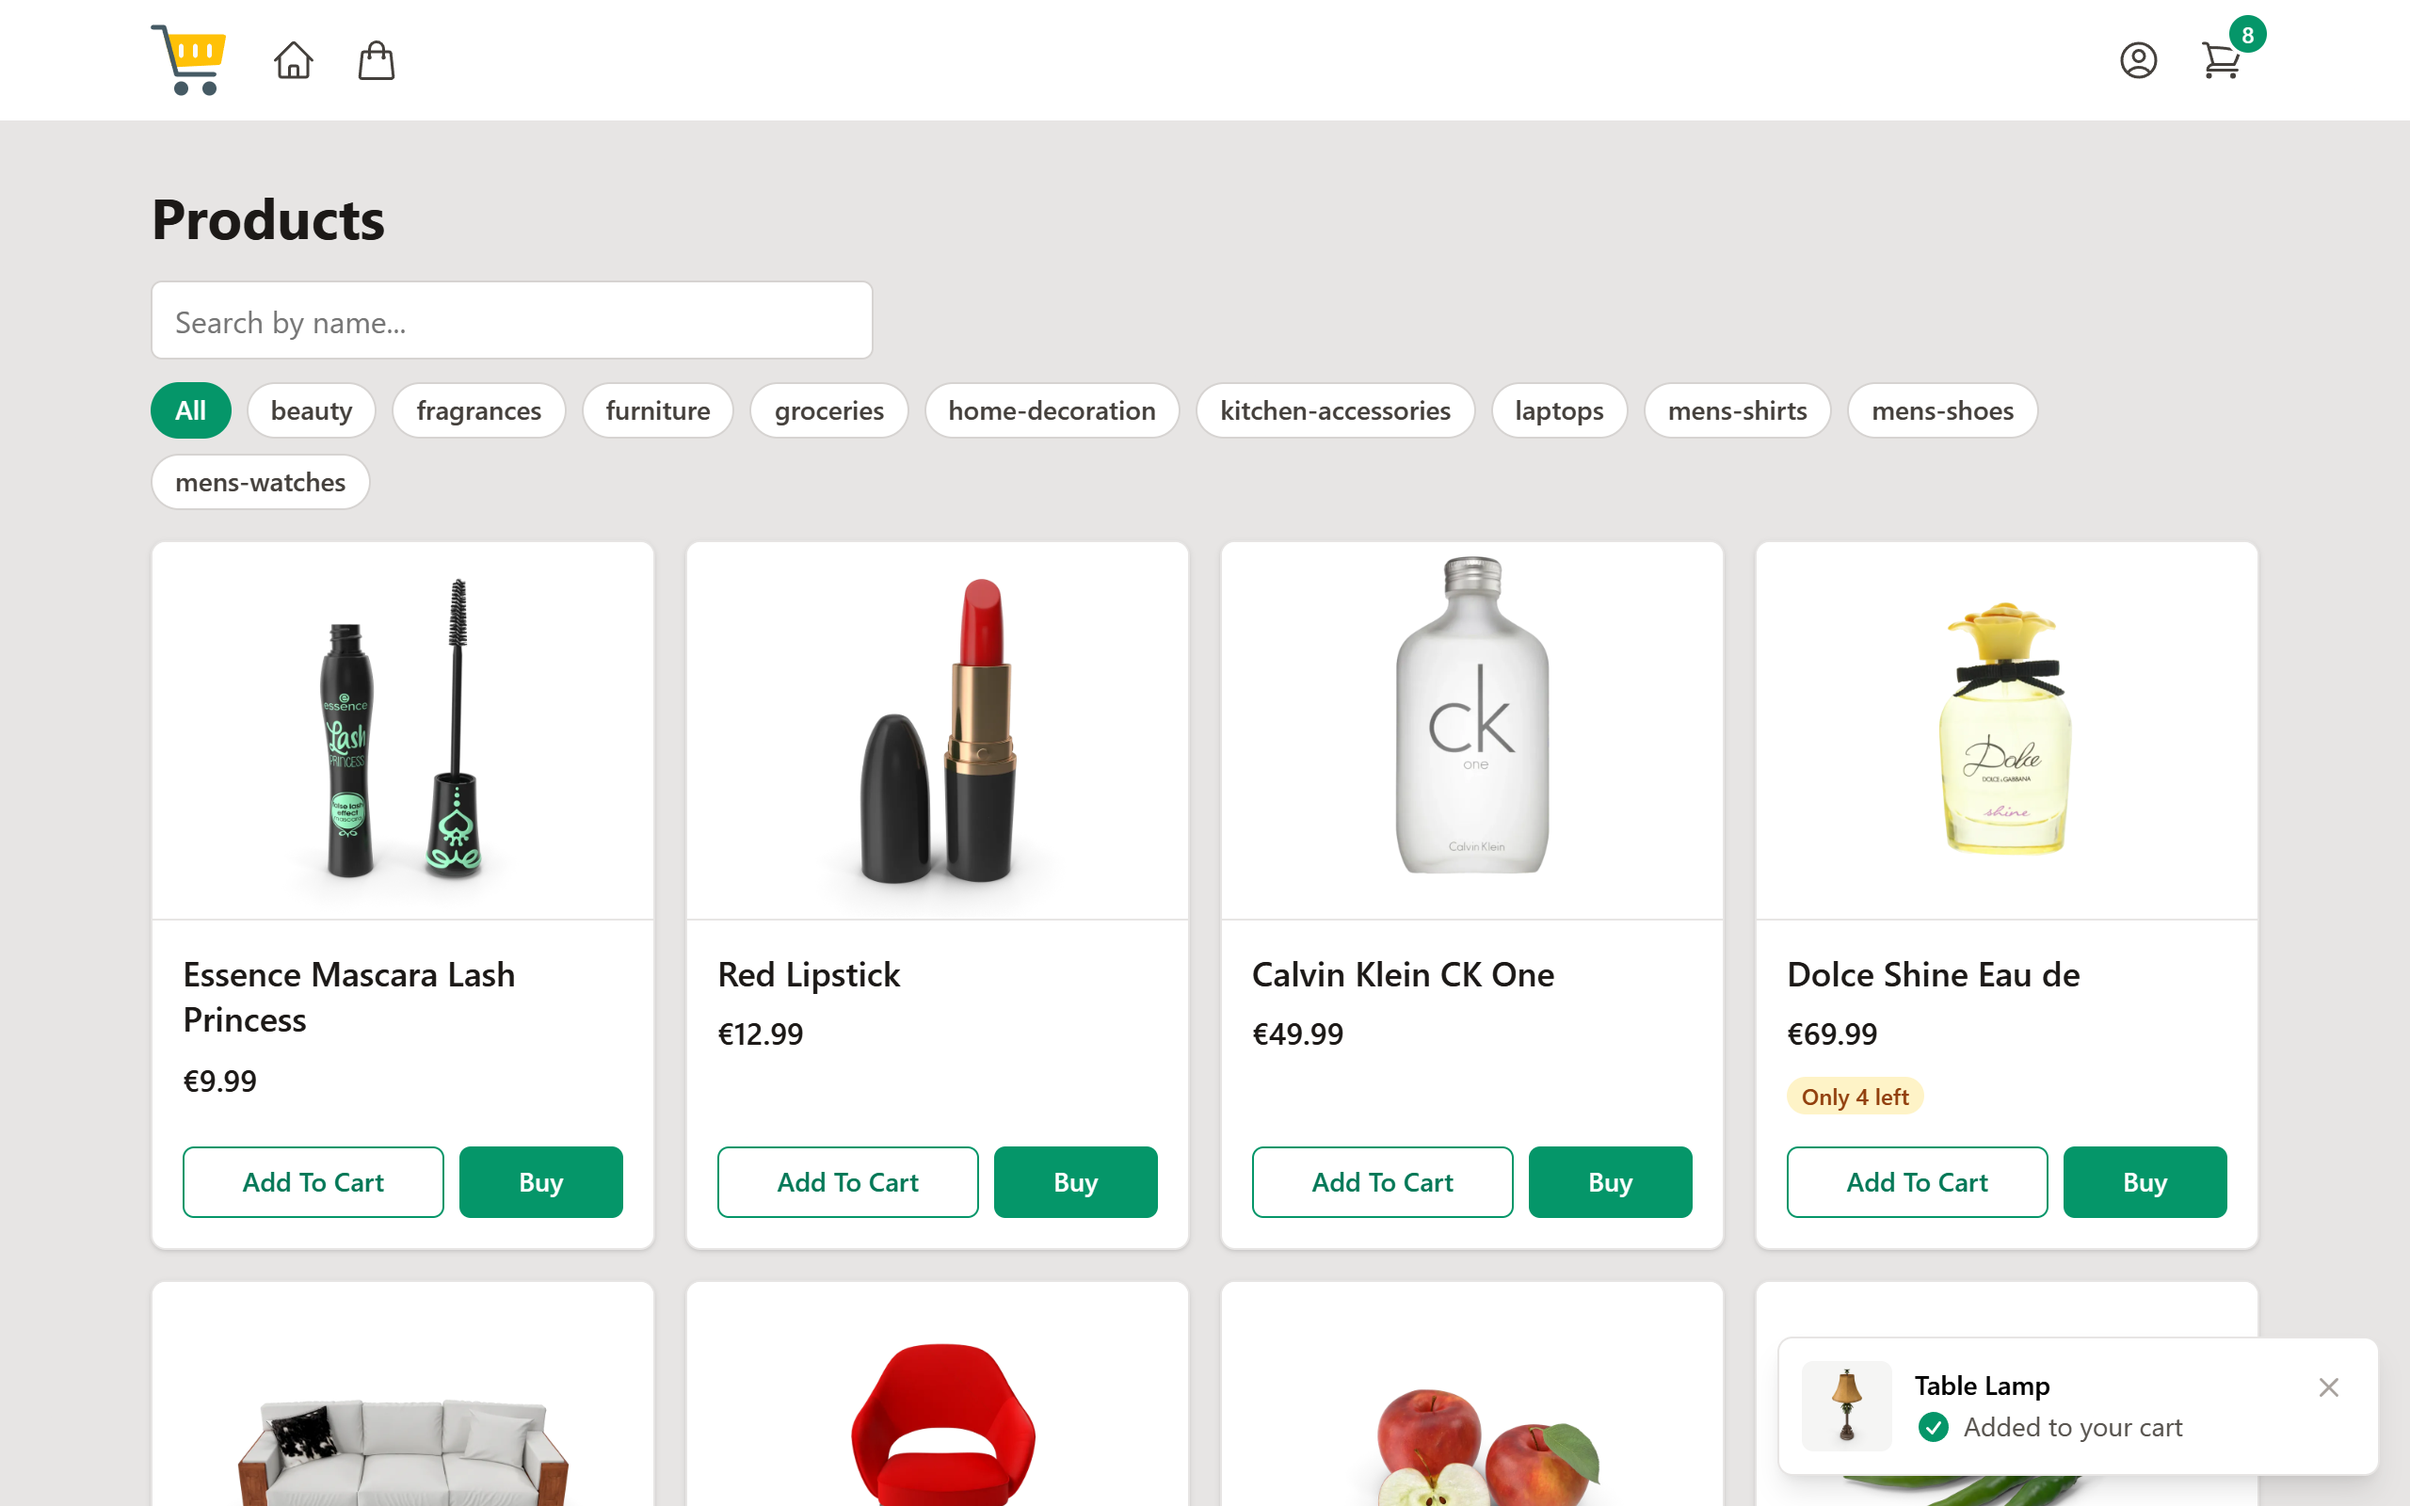
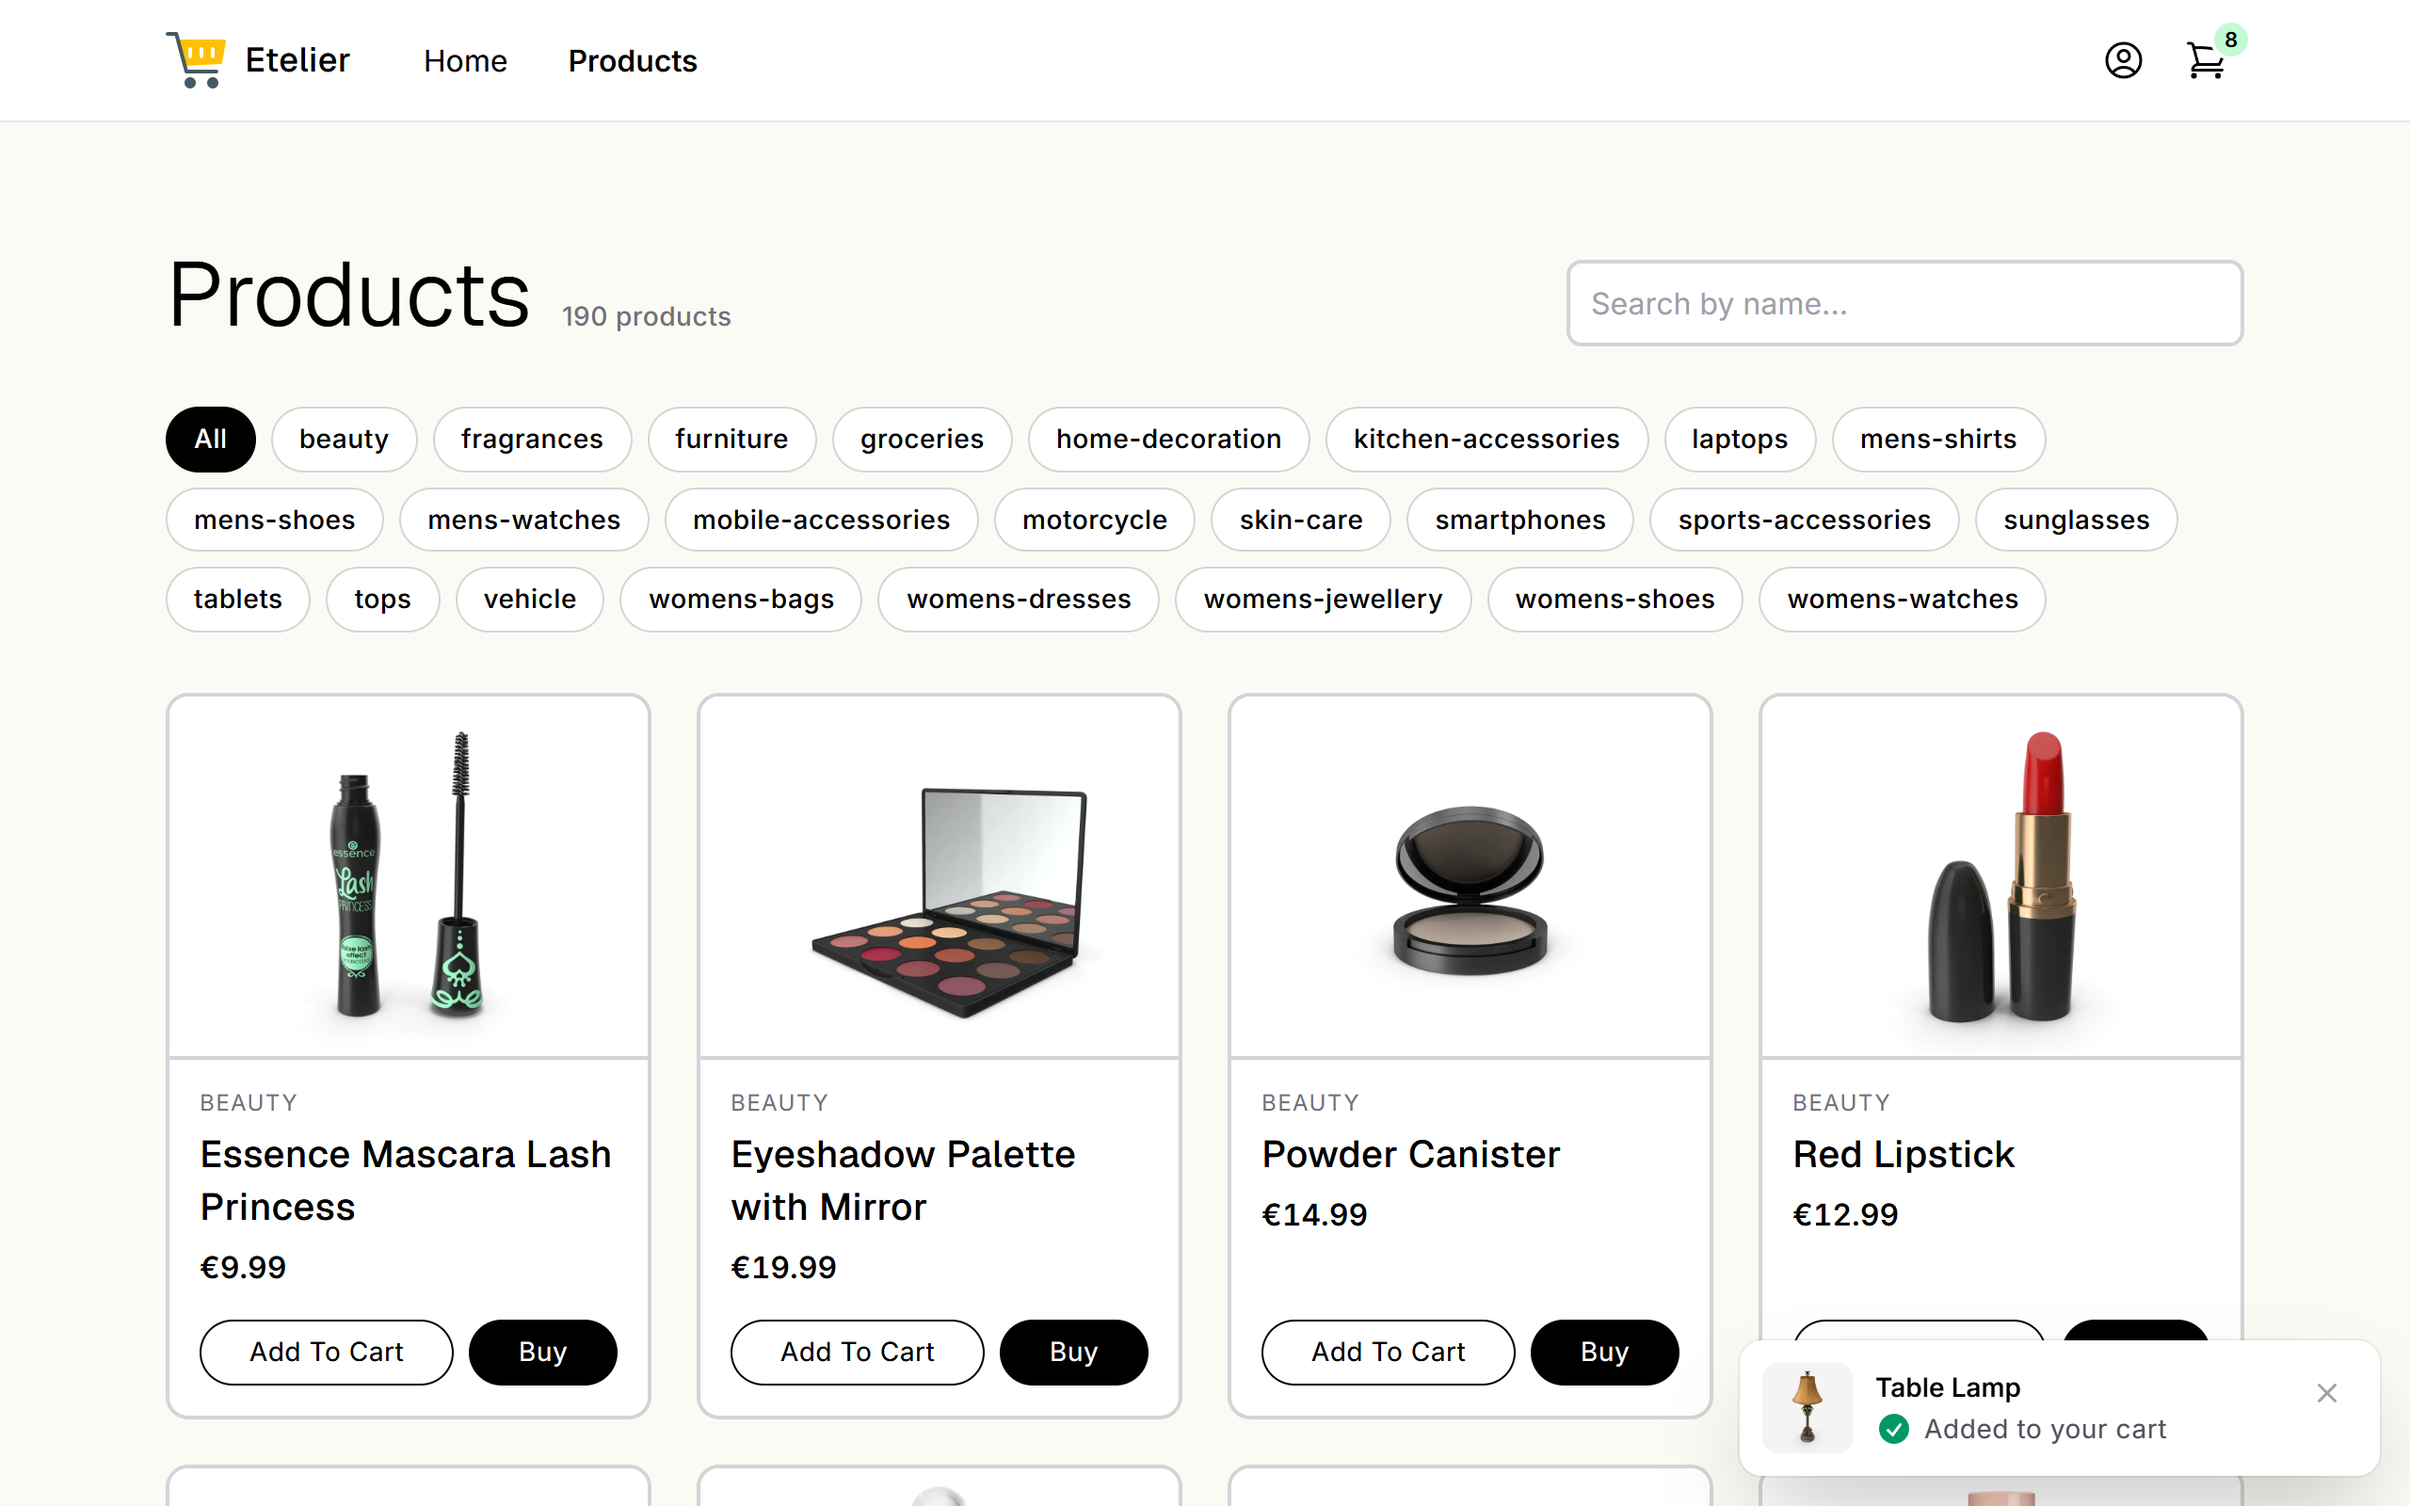
update screenshots to show the application with the new redesign

diff --git a/README.md b/README.md
@@ -19,8 +19,6 @@
 
 A small online shop built with Spring Boot and Thymeleaf. Customers can browse and filter products, add them to a cart or buy one straight away, pay through Stripe and see their order history. An admin gets a sales dashboard with low-stock alerts, can filter and page through every order, ship or refund paid orders, and add, edit, hide or set pictures for products.
 
-The project started as a web development group project for University ([report](docs/report.pdf), [wireframe design](docs/wireframe_design.pdf)). I decided to see if I could update, further refine and implement features as practice. The framework was upgraded, the security, database and order model were rebuilt, real payments were added, the Bootstrap pages were rebuilt with Tailwind CSS and then redesigned as **Etelier**, the catalogue was replaced with 194 real-looking products, and the whole thing is now covered by automated tests. The [Then vs now](#then-vs-now) section explains each change.
-
 <!-- markdownlint-disable MD033 -- side-by-side screenshots need HTML -->
 
 <p align="center">
@@ -33,10 +31,13 @@ The project started as a web development group project for University ([report](
 
 <!-- markdownlint-enable MD033 -->
 
+The project started as a web development [group project](https://github.com/jayengracio/webdev-ecommerce-project) for University. It was functional at best, but had a lot of issues in terms of security and general implementation in the backend. With this in mind, I decided this was a good start for further practice, as well as learning of new tech/tools I haven't used before.
+The framework was upgraded, the security, database and order model were rebuilt, real payments were added, the Bootstrap pages were rebuilt with Tailwind CSS and then redesigned as **Etelier**, the catalogue was replaced with 194 real-looking products, and the whole thing is now covered by automated tests. The [Then vs now](#then-vs-now) section explains each change.
+
 ## Run it locally
 
 > [!TIP]
-> Working on the code or running the tests? See the [developer guide](docs/README.md).
+> Check the [developer guide](docs/README.md) to get started on working on the code or running the tests.
 
 ### What you need
 
